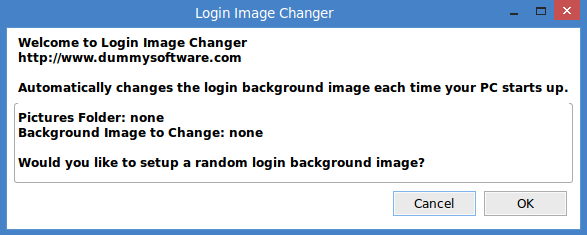
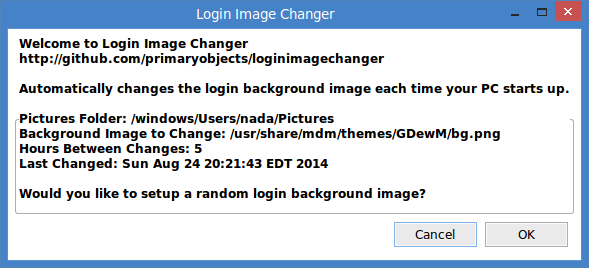
Updated screenshots.

diff --git a/readme.md b/readme.md
@@ -41,6 +41,8 @@ Install
 
 4. Set how frequently to change the image by choosing the number of hours between changes. Leave this as 0 to change the image every reboot. Set to 24 to change once per day.
 
+![Select hours between changes](https://raw.githubusercontent.com/primaryobjects/loginimagechanger/master/screenshots/screenshot4.png)
+
 5. It's now installed to run automatically at startup! If you want, you can manually run loginimage.sh to kick off the first random image.
  ```sh
  sudo bash loginimage.sh
